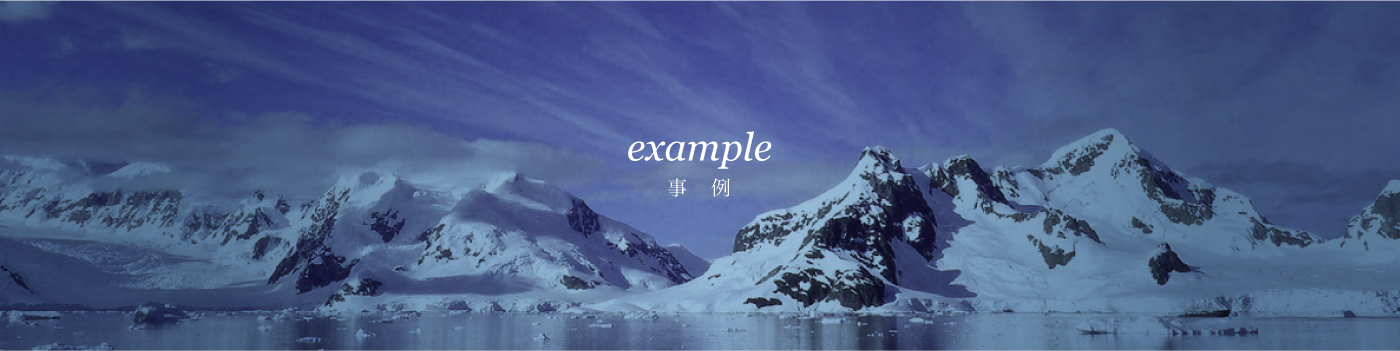
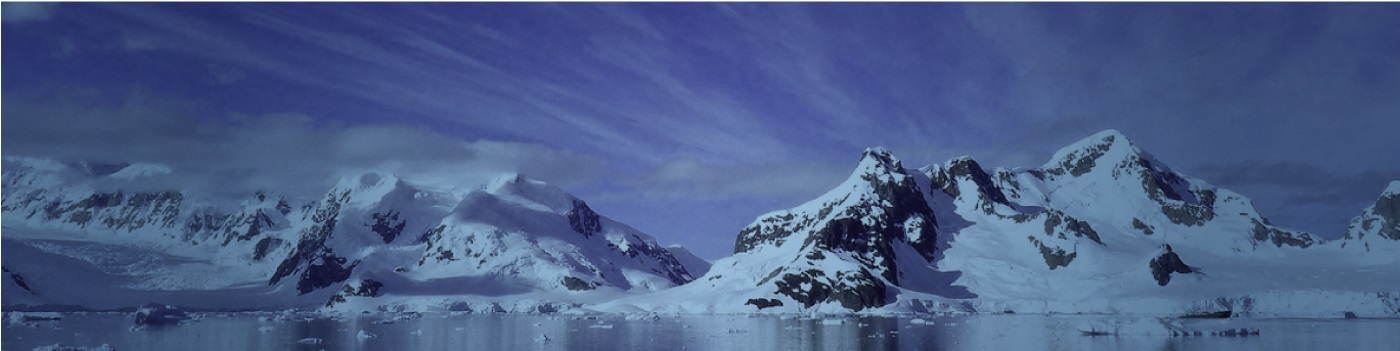
refs #4 各ページのヘッダ画像を文字のないものに差し替える

diff --git a/peano-system.jp/business.html b/peano-system.jp/business.html
@@ -65,7 +65,7 @@
 
 <div class="mainImg">
     <div class="mainImgIn ">
-        <img src="./img/system/img_main.png" alt="トップ" />
+        <img src="./img/system/img_main.jpg" alt="トップ" />
     </div>
 </div><!-- / mainImg -->
 

diff --git a/peano-system.jp/service.html b/peano-system.jp/service.html
@@ -65,7 +65,7 @@
 
 <div class="mainImg">
     <div class="mainImgIn ">
-        <img src="./img/system/img_main.png" alt="トップ" />
+        <img src="./img/system/img_main.jpg" alt="トップ" />
     </div>
 </div><!-- / mainImg -->
 
